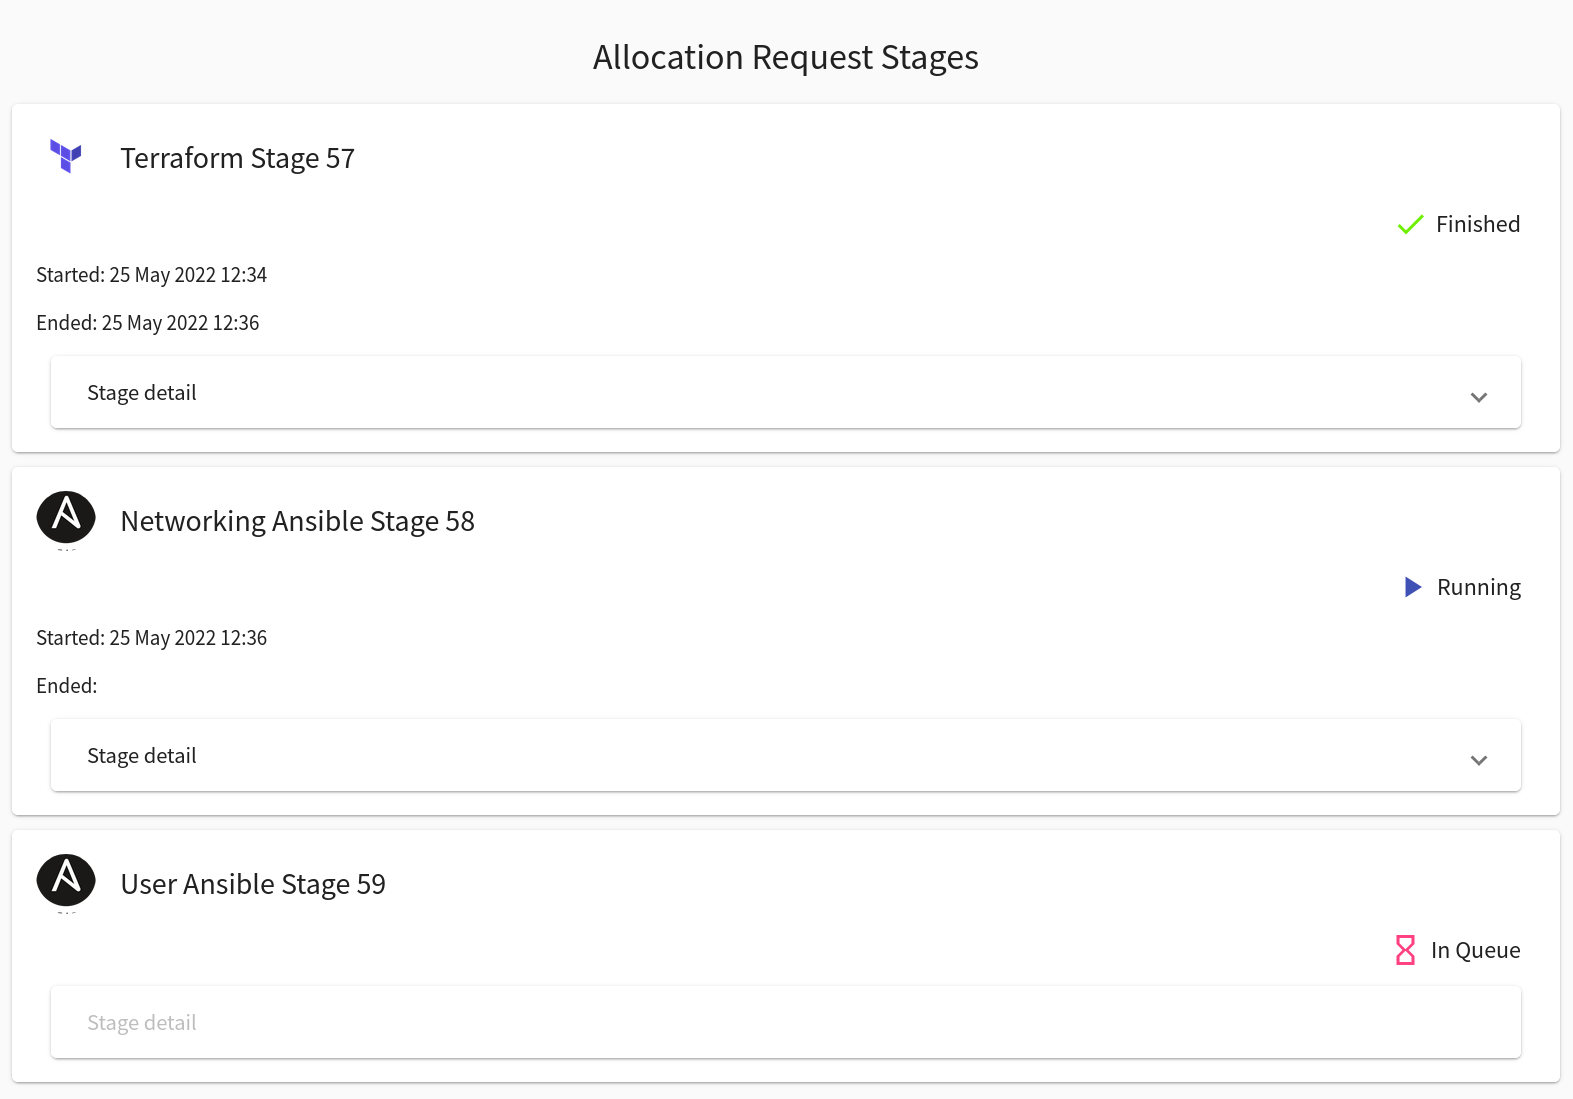
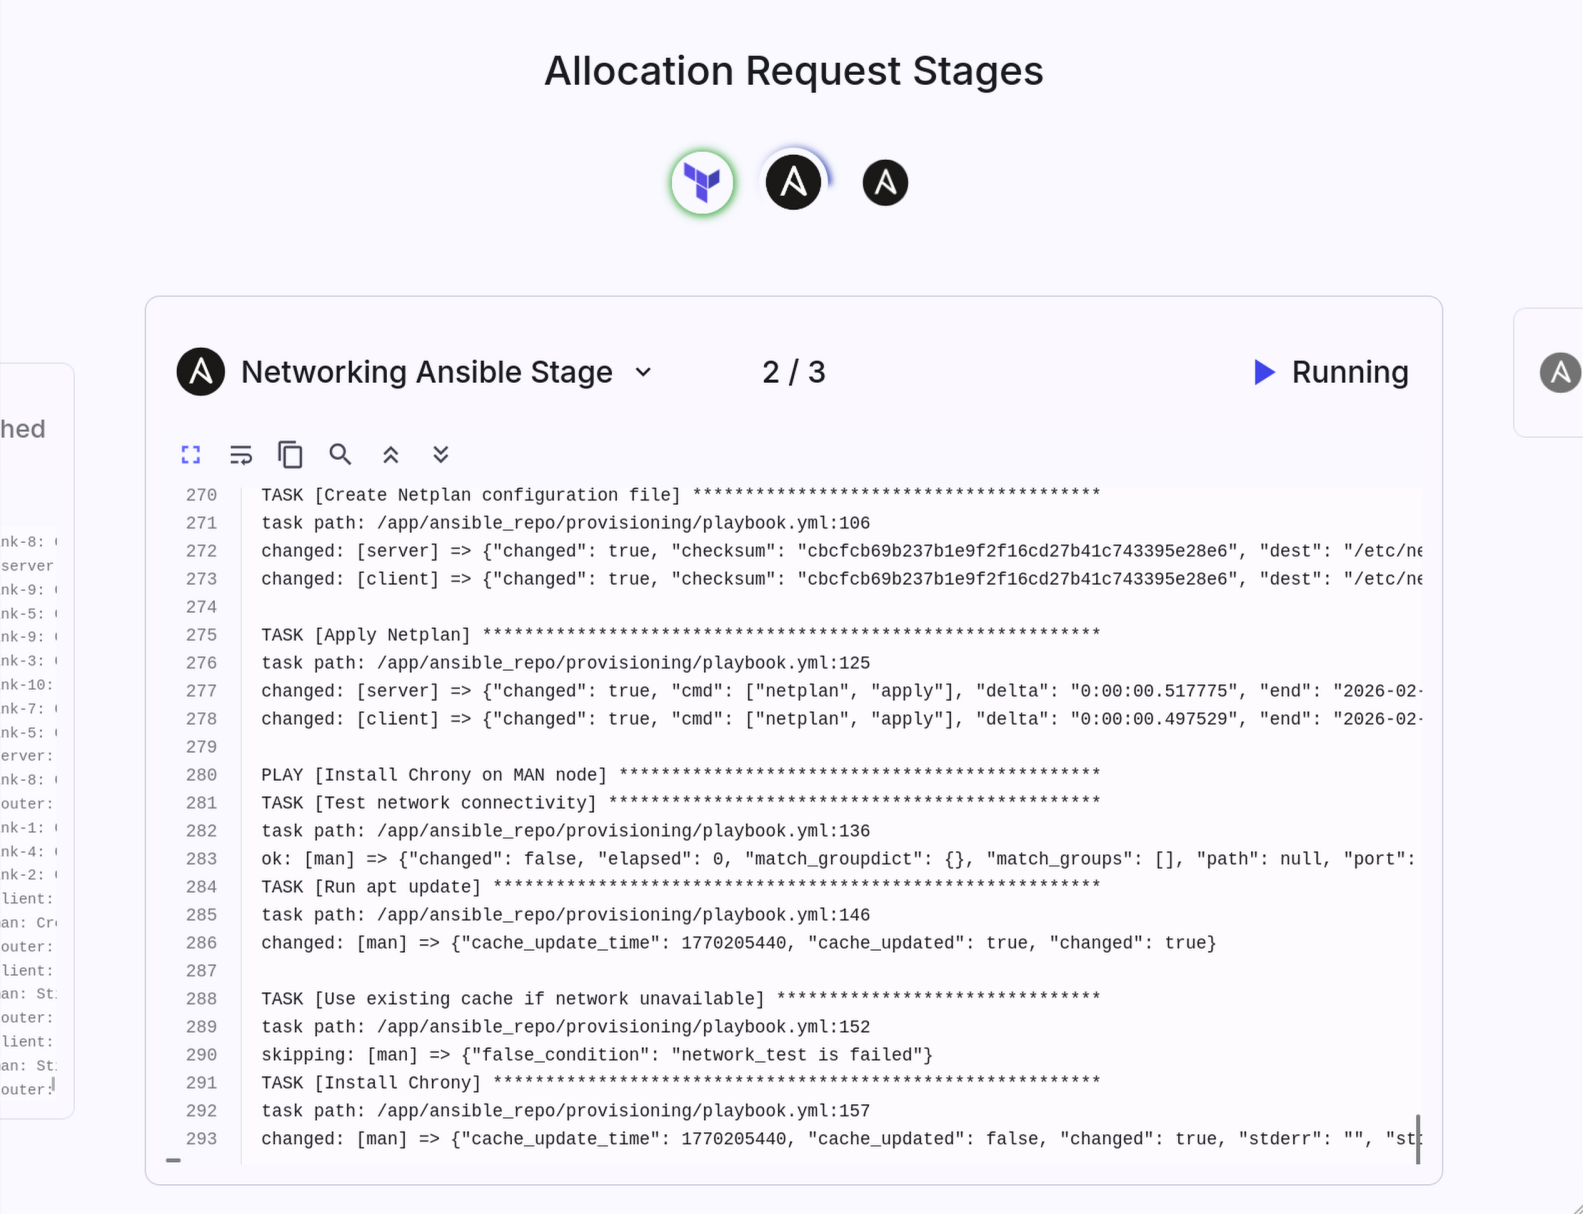
Document new allocation stages view.

diff --git a/docs/user-guide-basic/sandbox-agenda/pool.md b/docs/user-guide-basic/sandbox-agenda/pool.md
@@ -121,6 +121,16 @@ Allocation itself consists of **three** stages (allocation of a sandbox in the c
 !!! info "Retry stage"
     If one of the stages fails, you can restart the failed stage by clicking on the retry icon :bootstrap-cached-circle:{ .icon } which appears next to the stages. Keep in mind that as of now only the second and third stage can be restarted.
 
-Stage details of the sandbox are available by clicking on **sandbox name**. To see details of stage execution, click the **Stage detail** button of the given stage. In case that stage fails, the error message should be available there.
+Stage details of the sandbox are available by clicking on **sandbox name**. This page contains log outputs of each stage during the allocation process. This allows you to watch live logs and debug potential issues during the allocation process. 
+
+If scrolled to the bottom of the log output, new log lines will be automatically shown as they arrive. Once the stage finished, the next stage will be automatically focused. 
+
+* To **navigate between stages,** either **click the stage icon** at the top or **click into the contents** of the neighboring stage on either side of screen.
+* To see **metadata of a stage**, expand the detail by clicking on the stage name
+* **Toolbar** under the stage name allows you to:
+    * **Fullscreen** the log output
+    * Toggle **soft wrap** of log lines
+    * **Copy** log content to clipboard
+    * Scroll to **top/bottom** of log output
 
 ![allocation-request-stages](../../img/user-guide-basic/sandbox-agenda/pool/allocation-request-stages.png)
